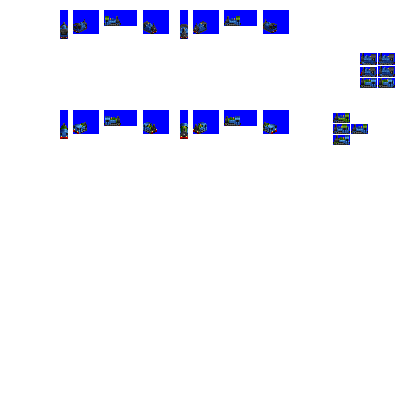
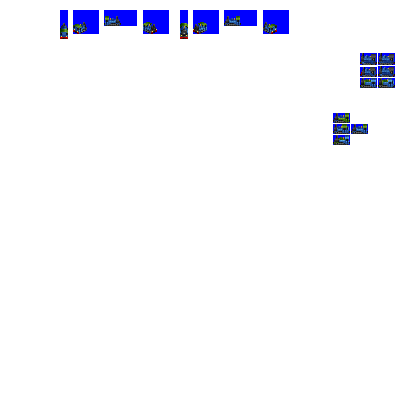
Change: sprites complete for Cheese Bug

diff --git a/src/vehicles/cheese_bug.py b/src/vehicles/cheese_bug.py
@@ -12,7 +12,7 @@ def main(roster):
                             tractive_effort_coefficient=0.2,
                             gen=1,
                             random_reverse=True,
-                            sprites_complete=False)
+                            sprites_complete=True)
 
     consist.add_unit(type=SteamEngineUnit,
                      weight=16,
